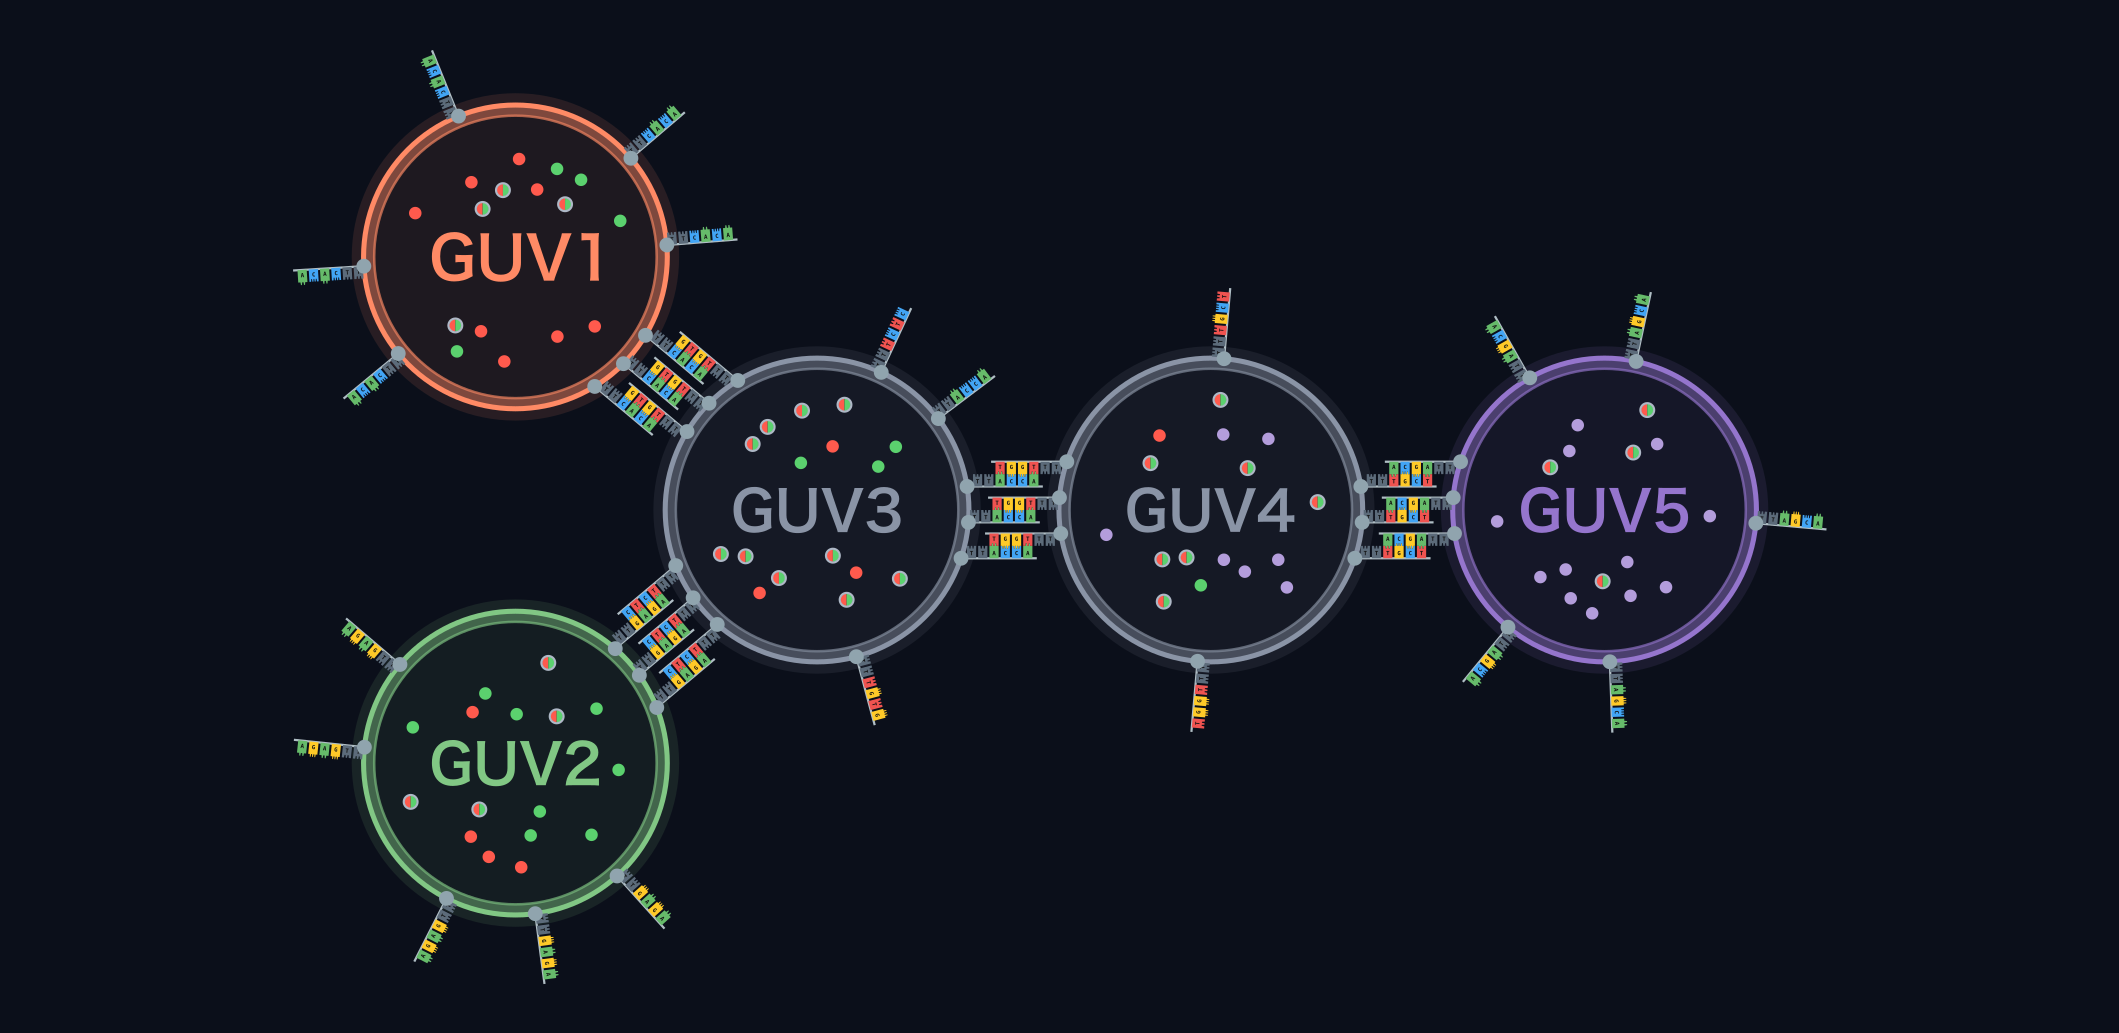
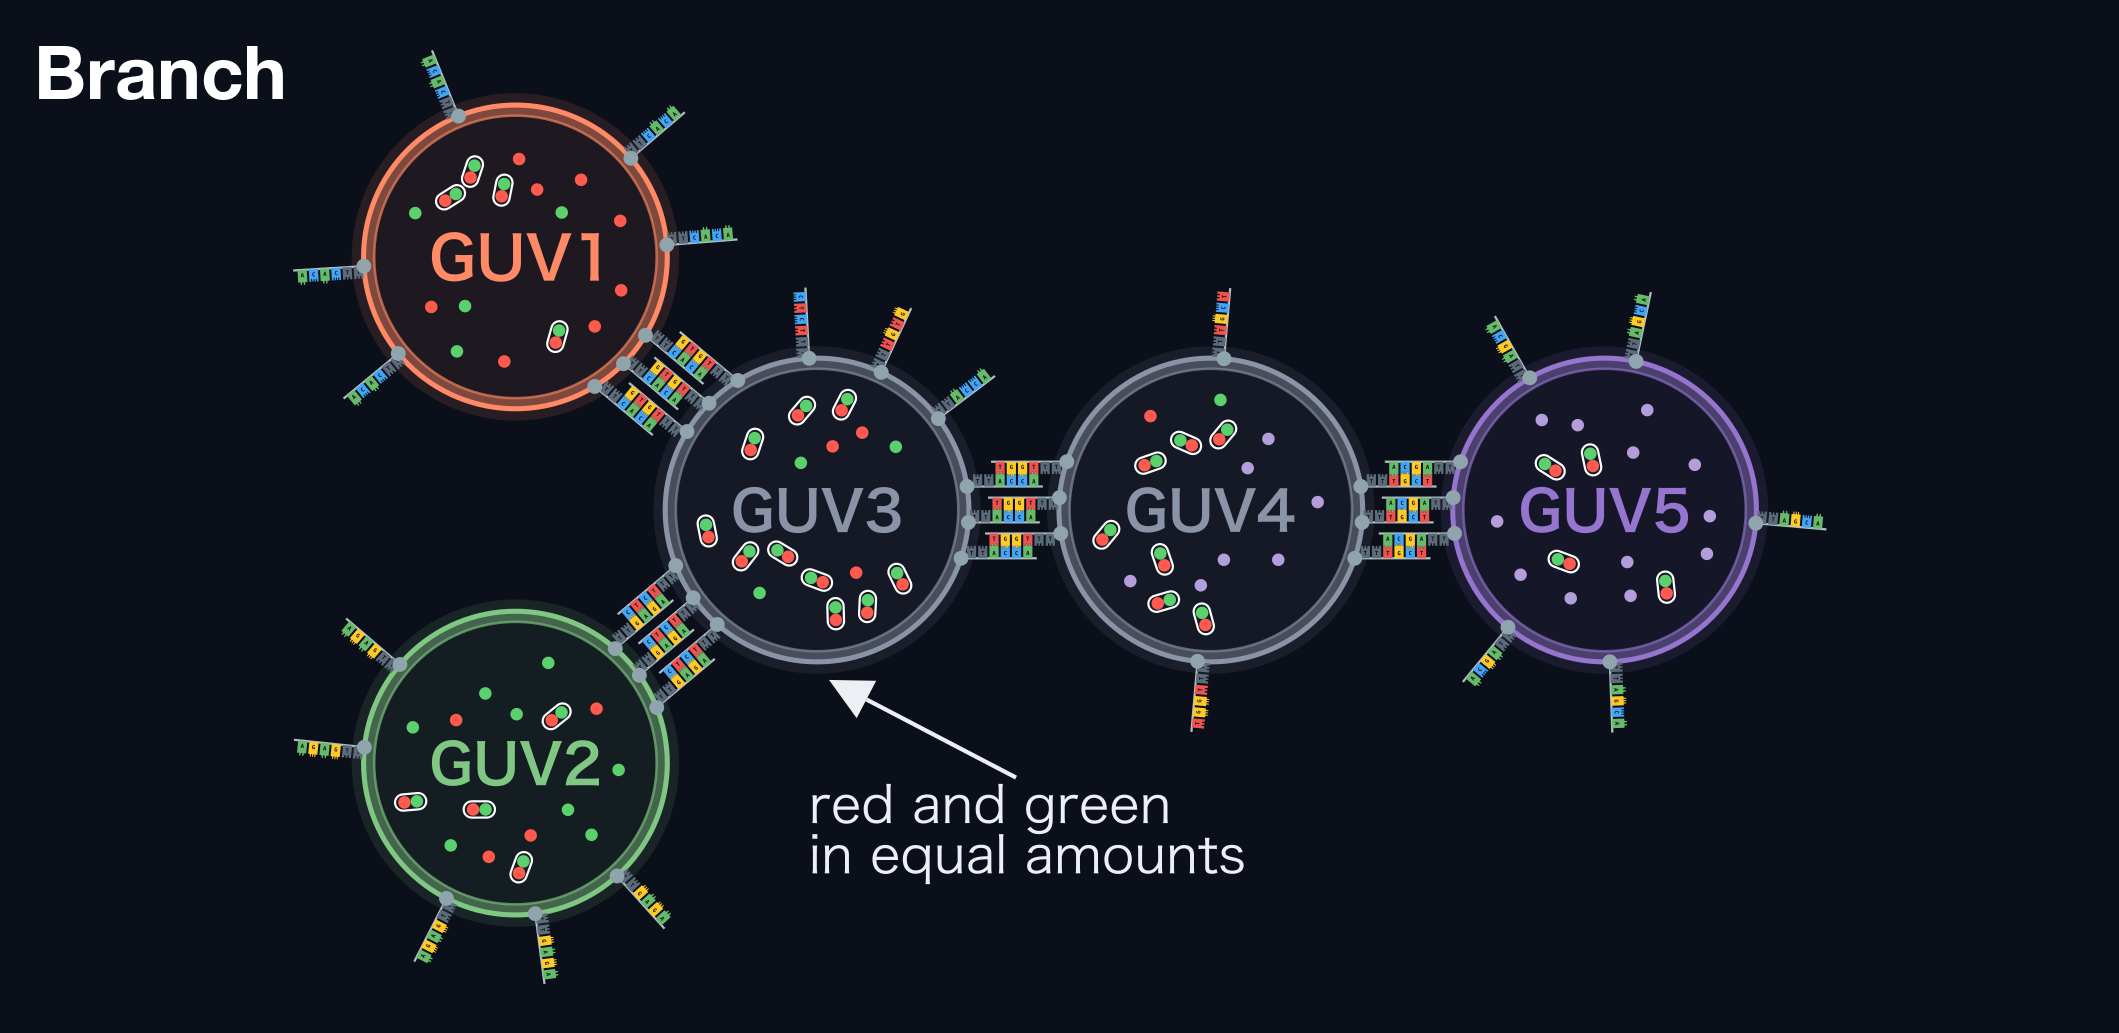
Future Fig. 2 (local draft): Line/Branch labels, arrows under GUV3, joined red+green dots circled in white; text refers to top/bottom

diff --git a/future.html b/future.html
@@ -81,13 +81,13 @@
                     <div class="study-row">
                         <div class="study-text">
                             <p>
-                                Branching increases the number of partners that one GUV can have. In a line, a GUV has at most two partners, so it can receive from one side and pass on to the other side. At a branch point, a GUV can have three or more partners. This makes it easier to carry out convergent reactions, in which two parts of a molecule are made separately, joined, and then processed further. Here, the red contents of GUV1 and the green contents of GUV2 react first, and the product then mixes with the purple contents of GUV5. In a line (Fig. 2A), the red contents of GUV1 have to pass through GUV2 to reach GUV3, so GUV3 is expected to receive more green contents than red contents, and the red contents already mix with the green ones in GUV2. In a branched network (Fig. 2B), GUV1 and GUV2 are both connected directly to GUV3, so the red and green contents are expected to reach GUV3 in similar amounts and mix there evenly. The product is then passed on to GUV4, where it mixes with the purple contents. A branch point can also pass one product to two GUVs for two different reactions.
+                                Branching increases the number of partners that one GUV can have. In a line, a GUV has at most two partners, so it can receive from one side and pass on to the other side. At a branch point, a GUV can have three or more partners. This makes it easier to carry out convergent reactions, in which two parts of a molecule are made separately, joined, and then processed further. Here, the red contents of GUV1 and the green contents of GUV2 react first, and the product then mixes with the purple contents of GUV5. In the line (Fig. 2, top), the red contents of GUV1 have to pass through GUV2 to reach GUV3, so GUV3 is expected to receive more green contents than red contents, and the red contents already mix with the green ones in GUV2. In the branched network (Fig. 2, bottom), GUV1 and GUV2 are both connected directly to GUV3, so the red and green contents are expected to reach GUV3 in similar amounts and mix there evenly. The product is then passed on to GUV4, where it mixes with the purple contents. A branch point can also pass one product to two GUVs for two different reactions.
                             </p>
                         </div>
                         <figure>
-                            <img src="images/future-convergent-line-v1.png" alt="(A) Five GUVs in a line, GUV1 (red) to GUV5 (purple). GUV1 contains red dots and GUV2 contains mostly green dots with some red. GUV3 and GUV4 contain mostly green dots with a few red dots and a few half-red half-green dots, and GUV5 contains mostly purple dots.">
-                            <img src="images/future-convergent-branch-v1.png" alt="(B) A branched network: GUV1 (red) and GUV2 (green) are both connected to GUV3, which is connected to GUV4, which is connected to GUV5 (purple). GUV3 contains mostly half-red half-green dots, and GUV4 contains half-red half-green dots and purple dots.">
-                            <figcaption><strong>Fig. 2 Reacting the red and green contents and then mixing the product with the purple contents, in a line (A) and in a branched network (B).</strong> Red, green and purple dots are the contents of GUV1, GUV2 and GUV5. A half-red, half-green dot is the product of the reaction between the red and green contents. GUV3 and GUV4 are the places where the contents meet.</figcaption>
+                            <img src="images/future-convergent-line-v1.png" alt="Line: five GUVs in a line, GUV1 (red) to GUV5 (purple). GUV1 contains red dots and GUV2 contains mostly green dots with some red. GUV3 and GUV4 contain mostly green dots with a few red dots and a few joined red-and-green dots, and GUV5 contains mostly purple dots.">
+                            <img src="images/future-convergent-branch-v1.png" alt="Branch: a branched network: GUV1 (red) and GUV2 (green) are both connected to GUV3, which is connected to GUV4, which is connected to GUV5 (purple). GUV3 contains mostly joined red-and-green dots, and GUV4 contains joined red-and-green dots and purple dots.">
+                            <figcaption><strong>Fig. 2 Reacting the red and green contents and then mixing the product with the purple contents, in a line (top) and in a branched network (bottom).</strong> Red, green and purple dots are the contents of GUV1, GUV2 and GUV5. A red dot and a green dot joined and circled in white are the product of the reaction between the red and green contents. GUV3 and GUV4 are the places where the contents meet.</figcaption>
                         </figure>
                     </div>
 
